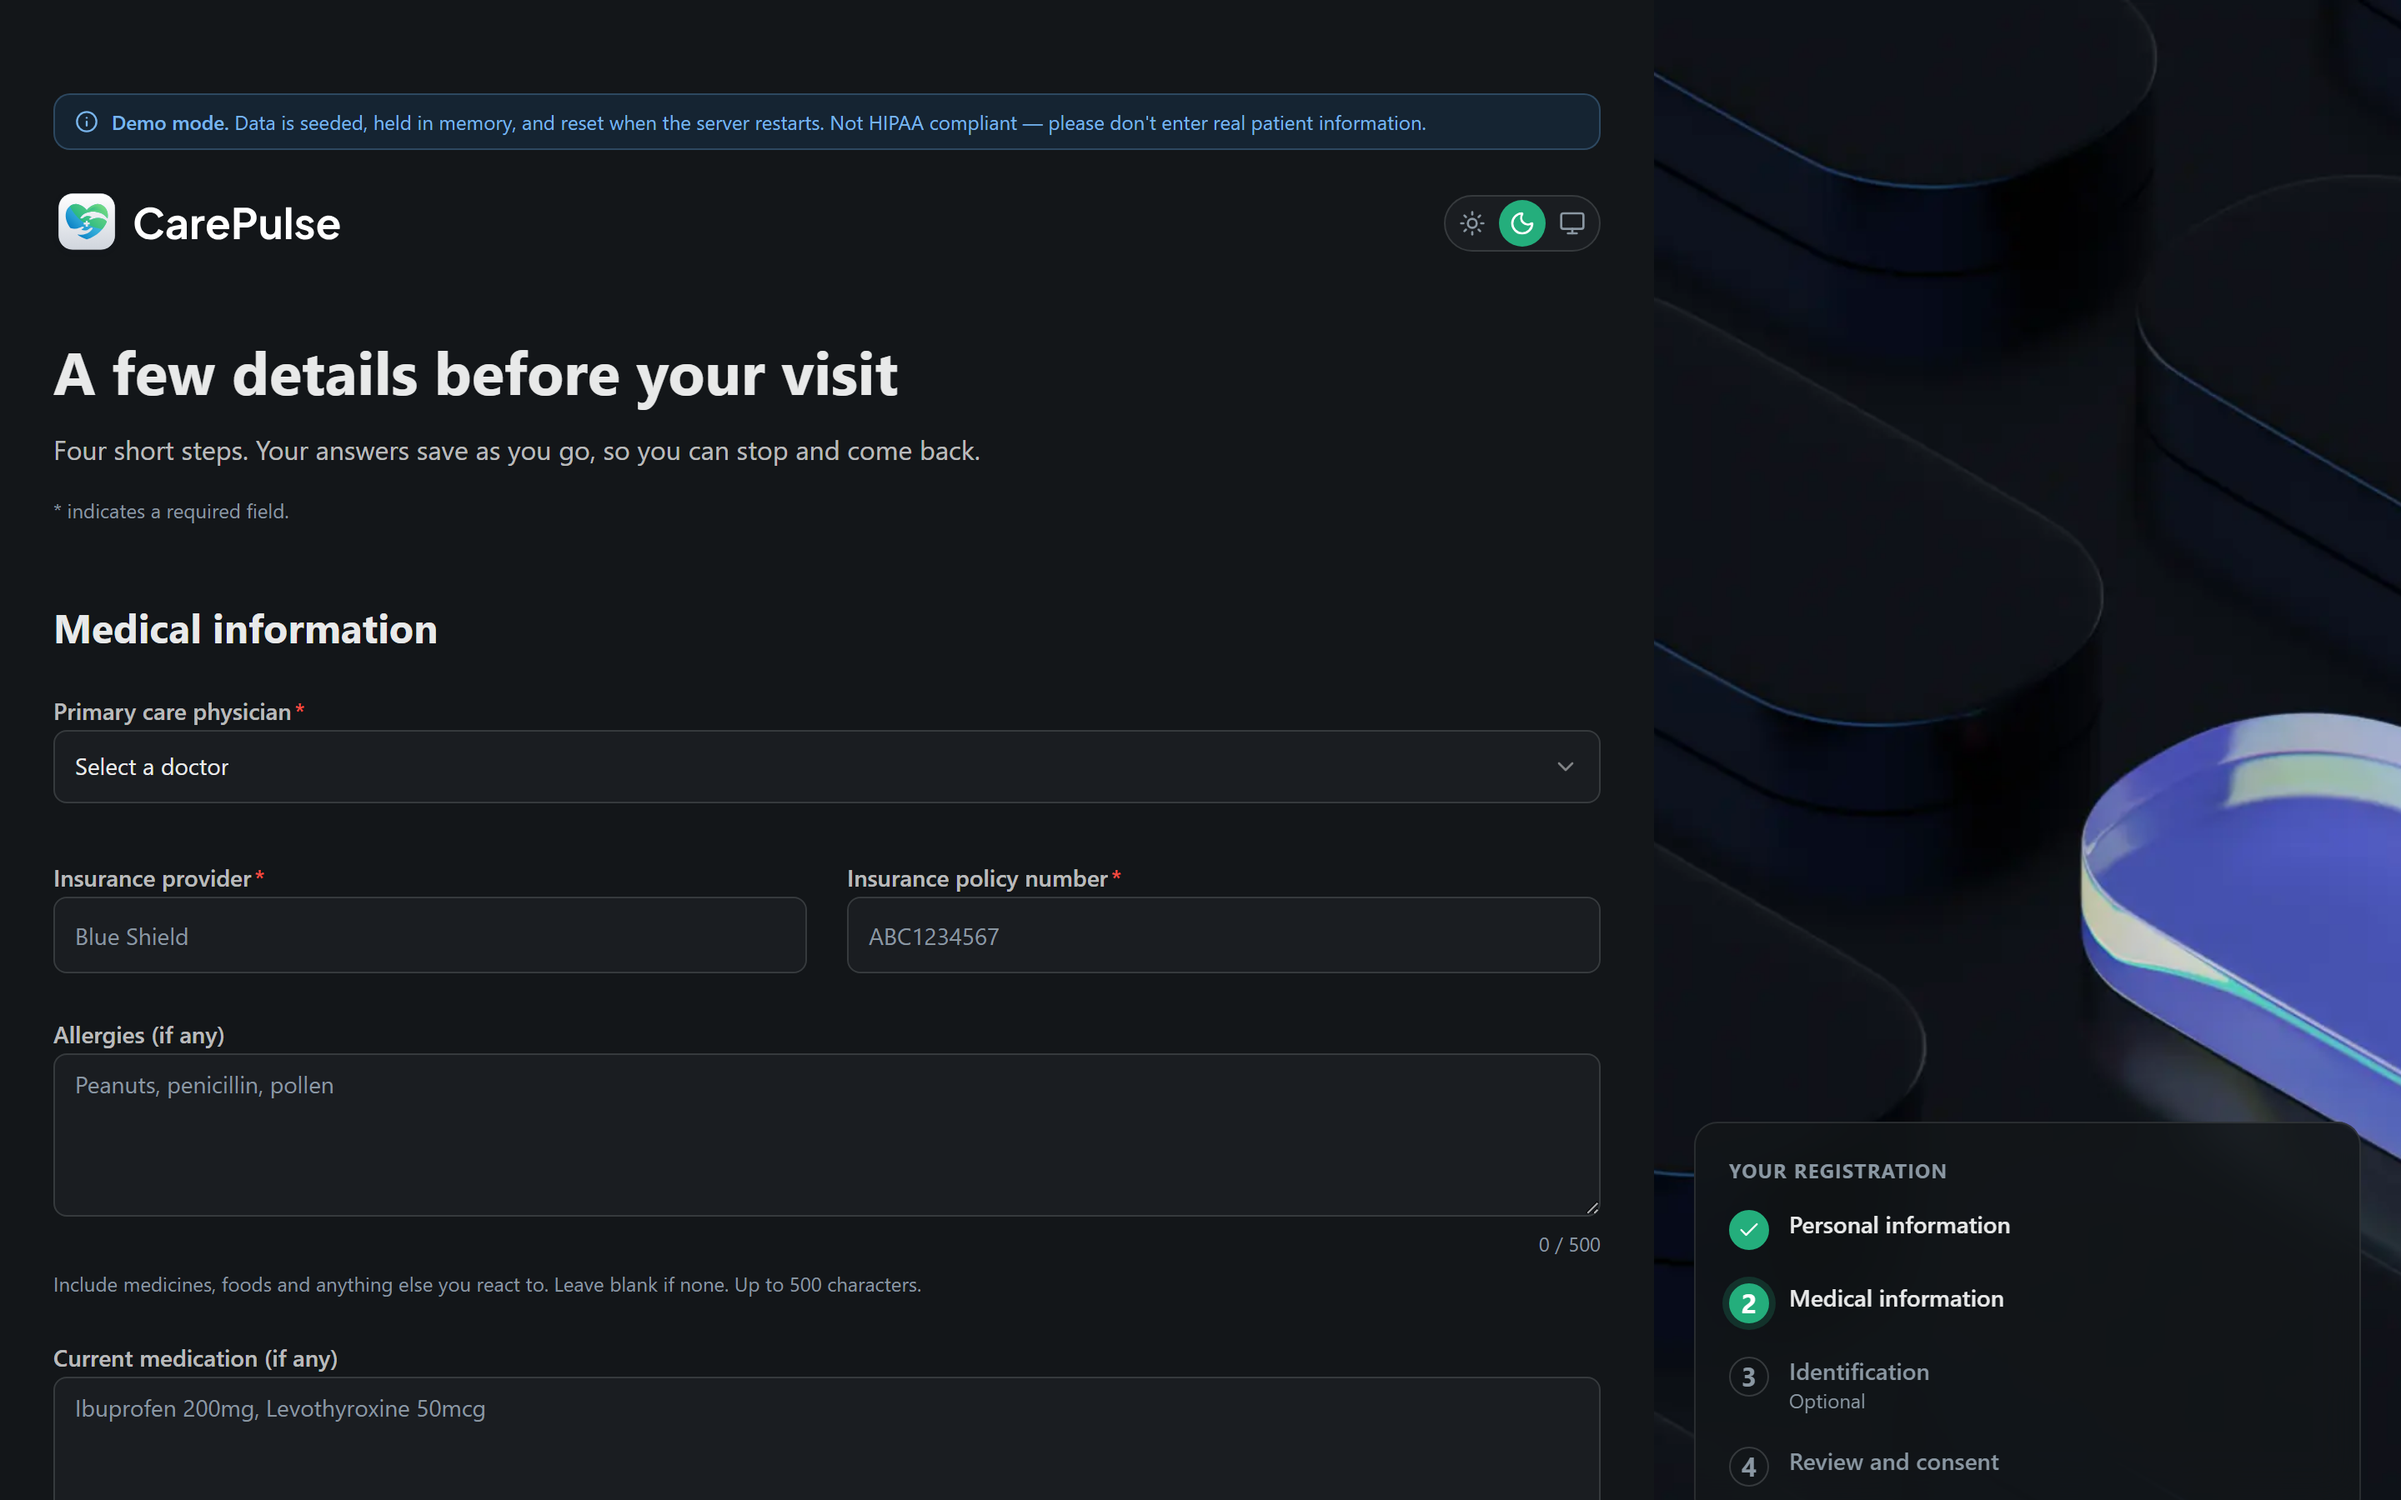
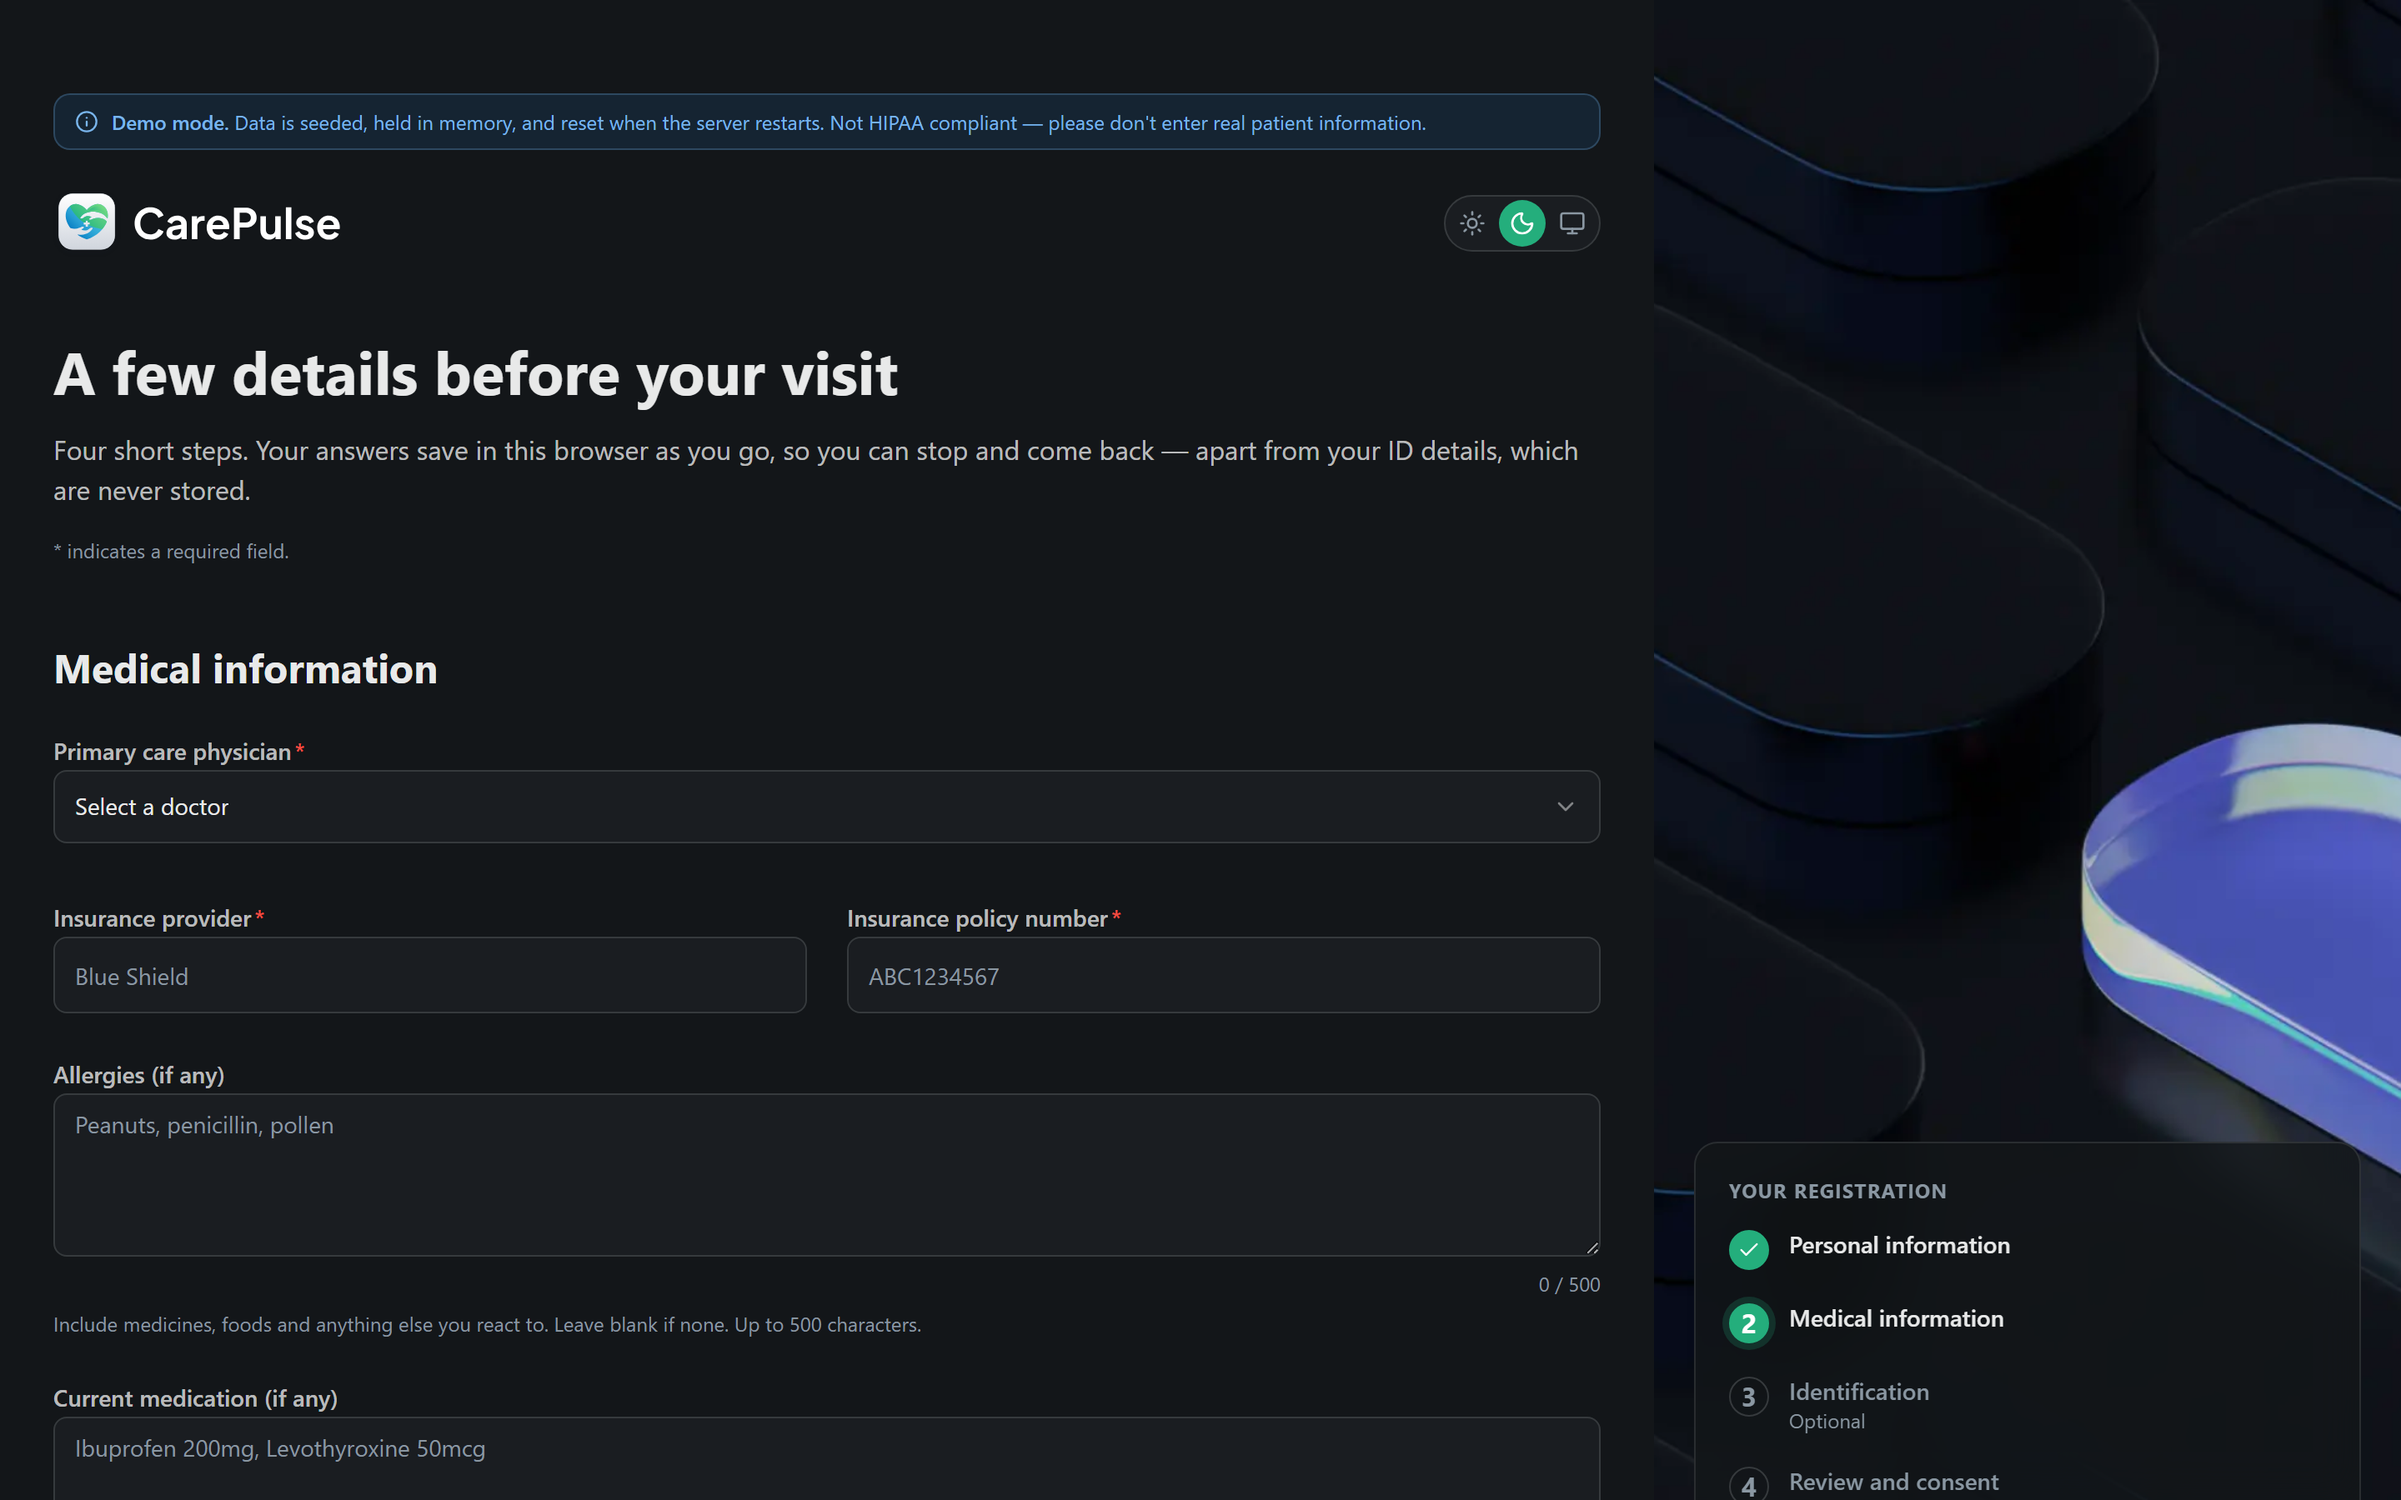
fix(register): stop promising to save details we deliberately discard
The intro copy on the registration form said answers "save as you go, so
you can stop and come back" without qualification. That is not true for
identificationNumber and identificationDocument: useFormDraft's EXCLUDED
set deliberately keeps those two fields out of the localStorage draft, on
the reasonable premise that an identification number should not sit in
localStorage on a shared machine. A patient who fills in their ID details,
leaves, and comes back would find that step blank, directly contradicting
what the sentence promised.

Reworded to say answers save in this browser (localStorage is per-browser,
not per-account) and to call out the one exception by name, so the copy
matches what the code actually does.

diff --git a/components/forms/RegisterForm.tsx b/components/forms/RegisterForm.tsx
@@ -203,8 +203,9 @@ export default function RegisterForm() {
         <section className="space-y-4">
           <h1 className="header">A few details before your visit</h1>
           <p className="text-foreground/80">
-            Four short steps. Your answers save as you go, so you can stop and
-            come back.
+            Four short steps. Your answers save in this browser as you go, so
+            you can stop and come back — apart from your ID details, which
+            are never stored.
           </p>
           <p className="text-12-regular text-muted-foreground">
             <span aria-hidden="true">*</span> indicates a required field.
